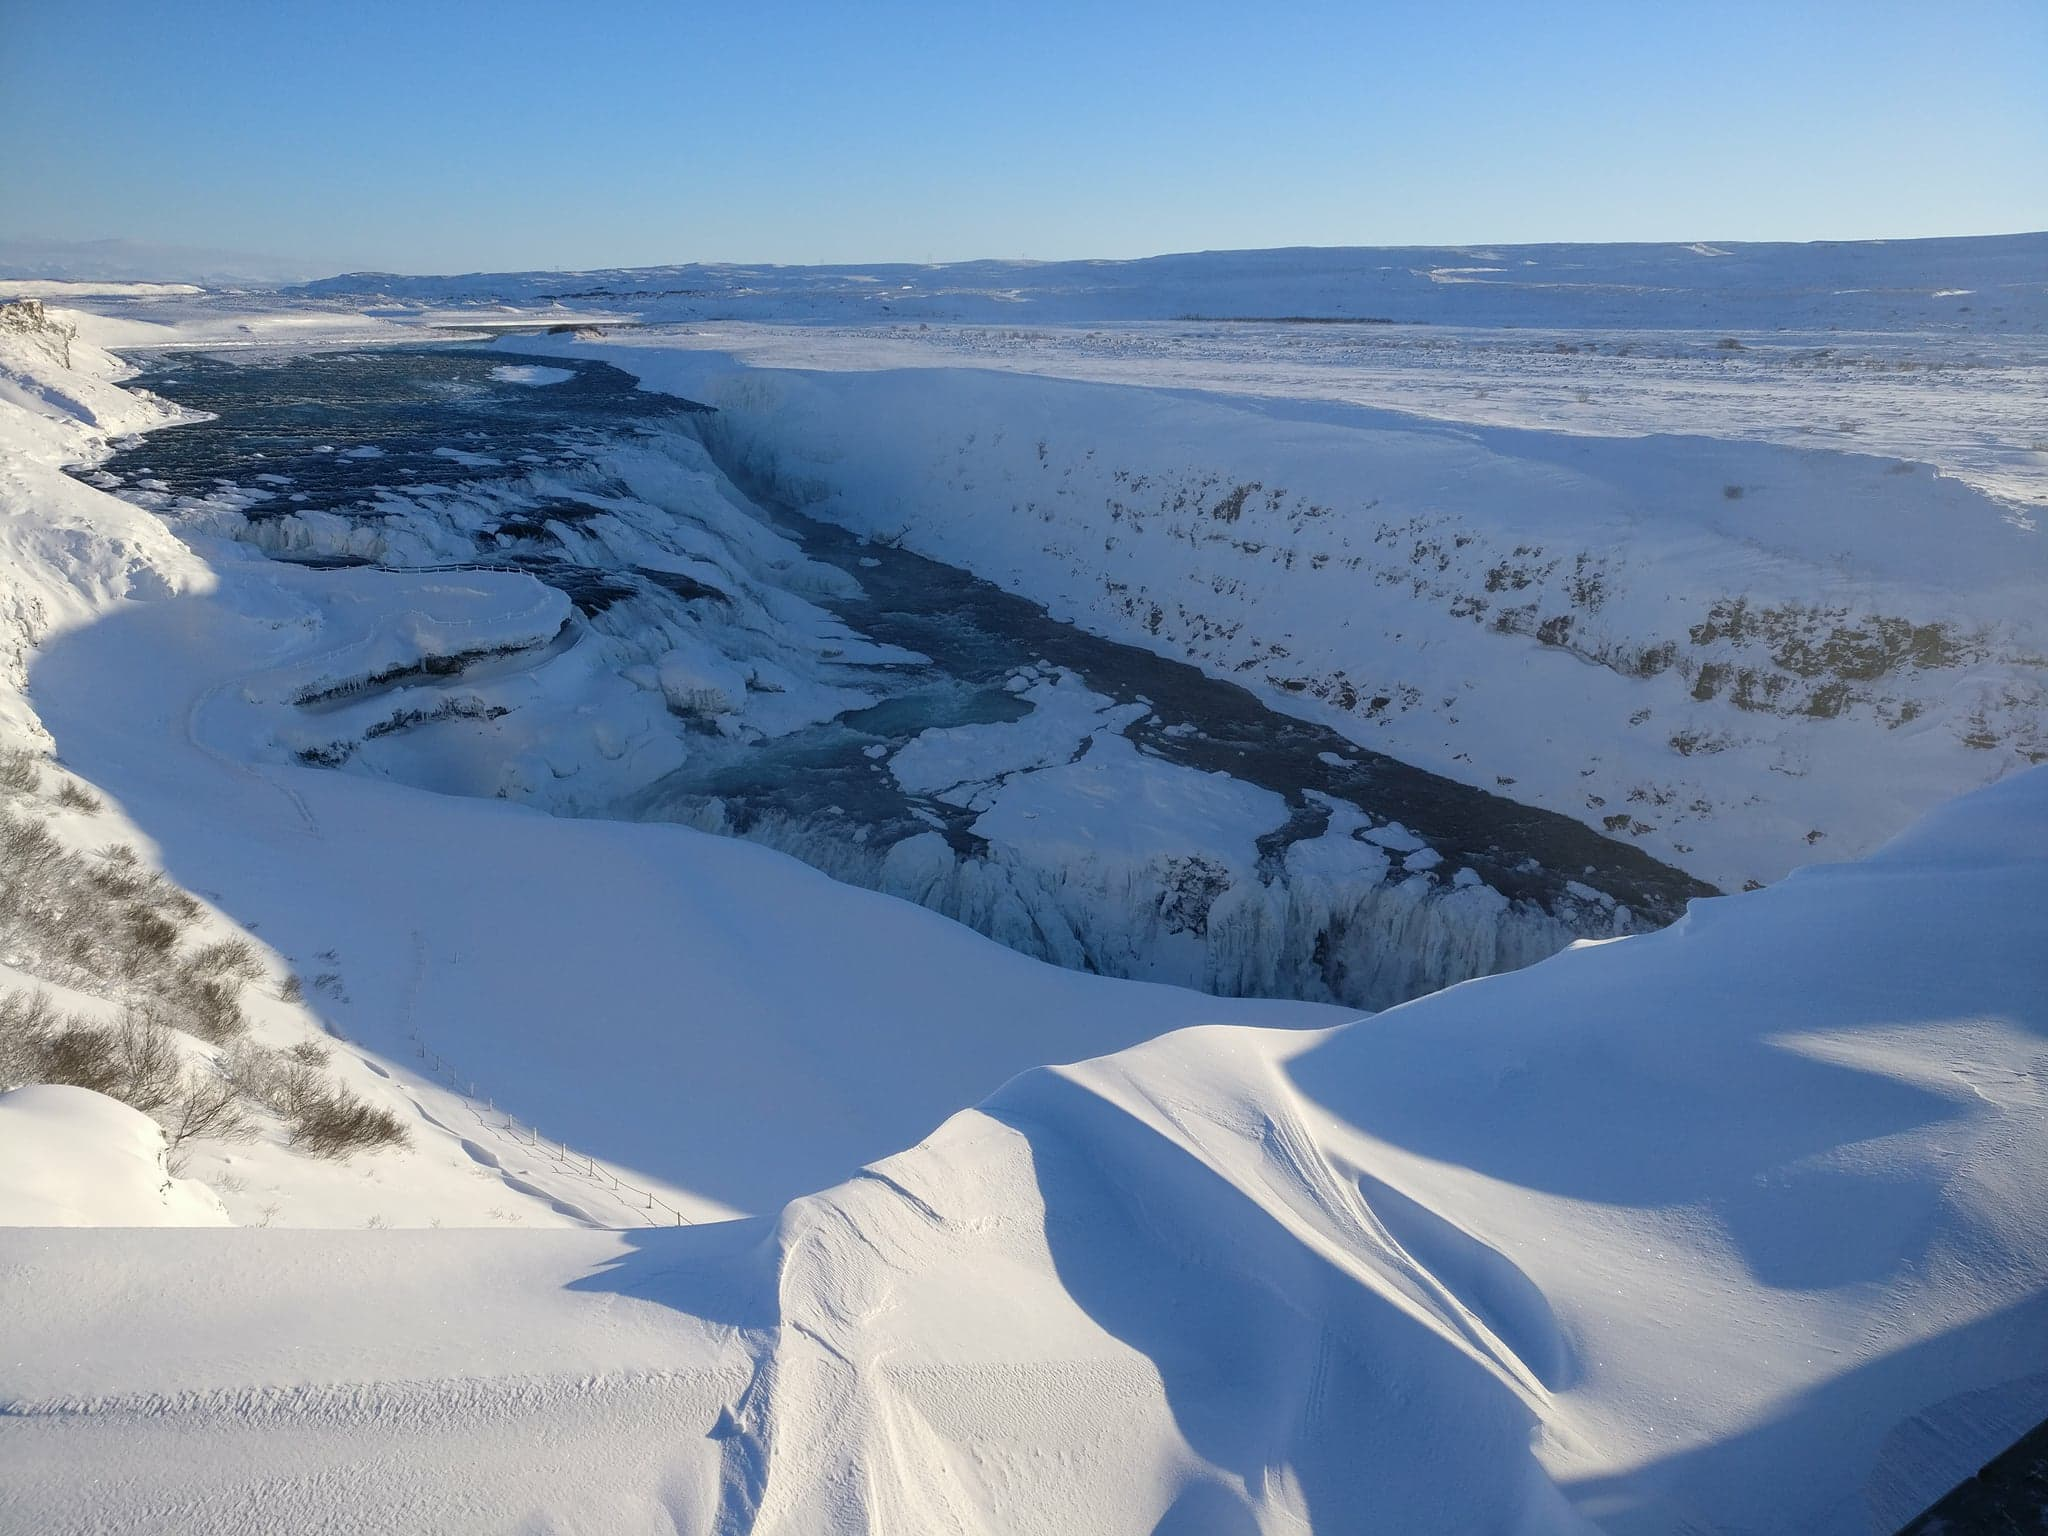
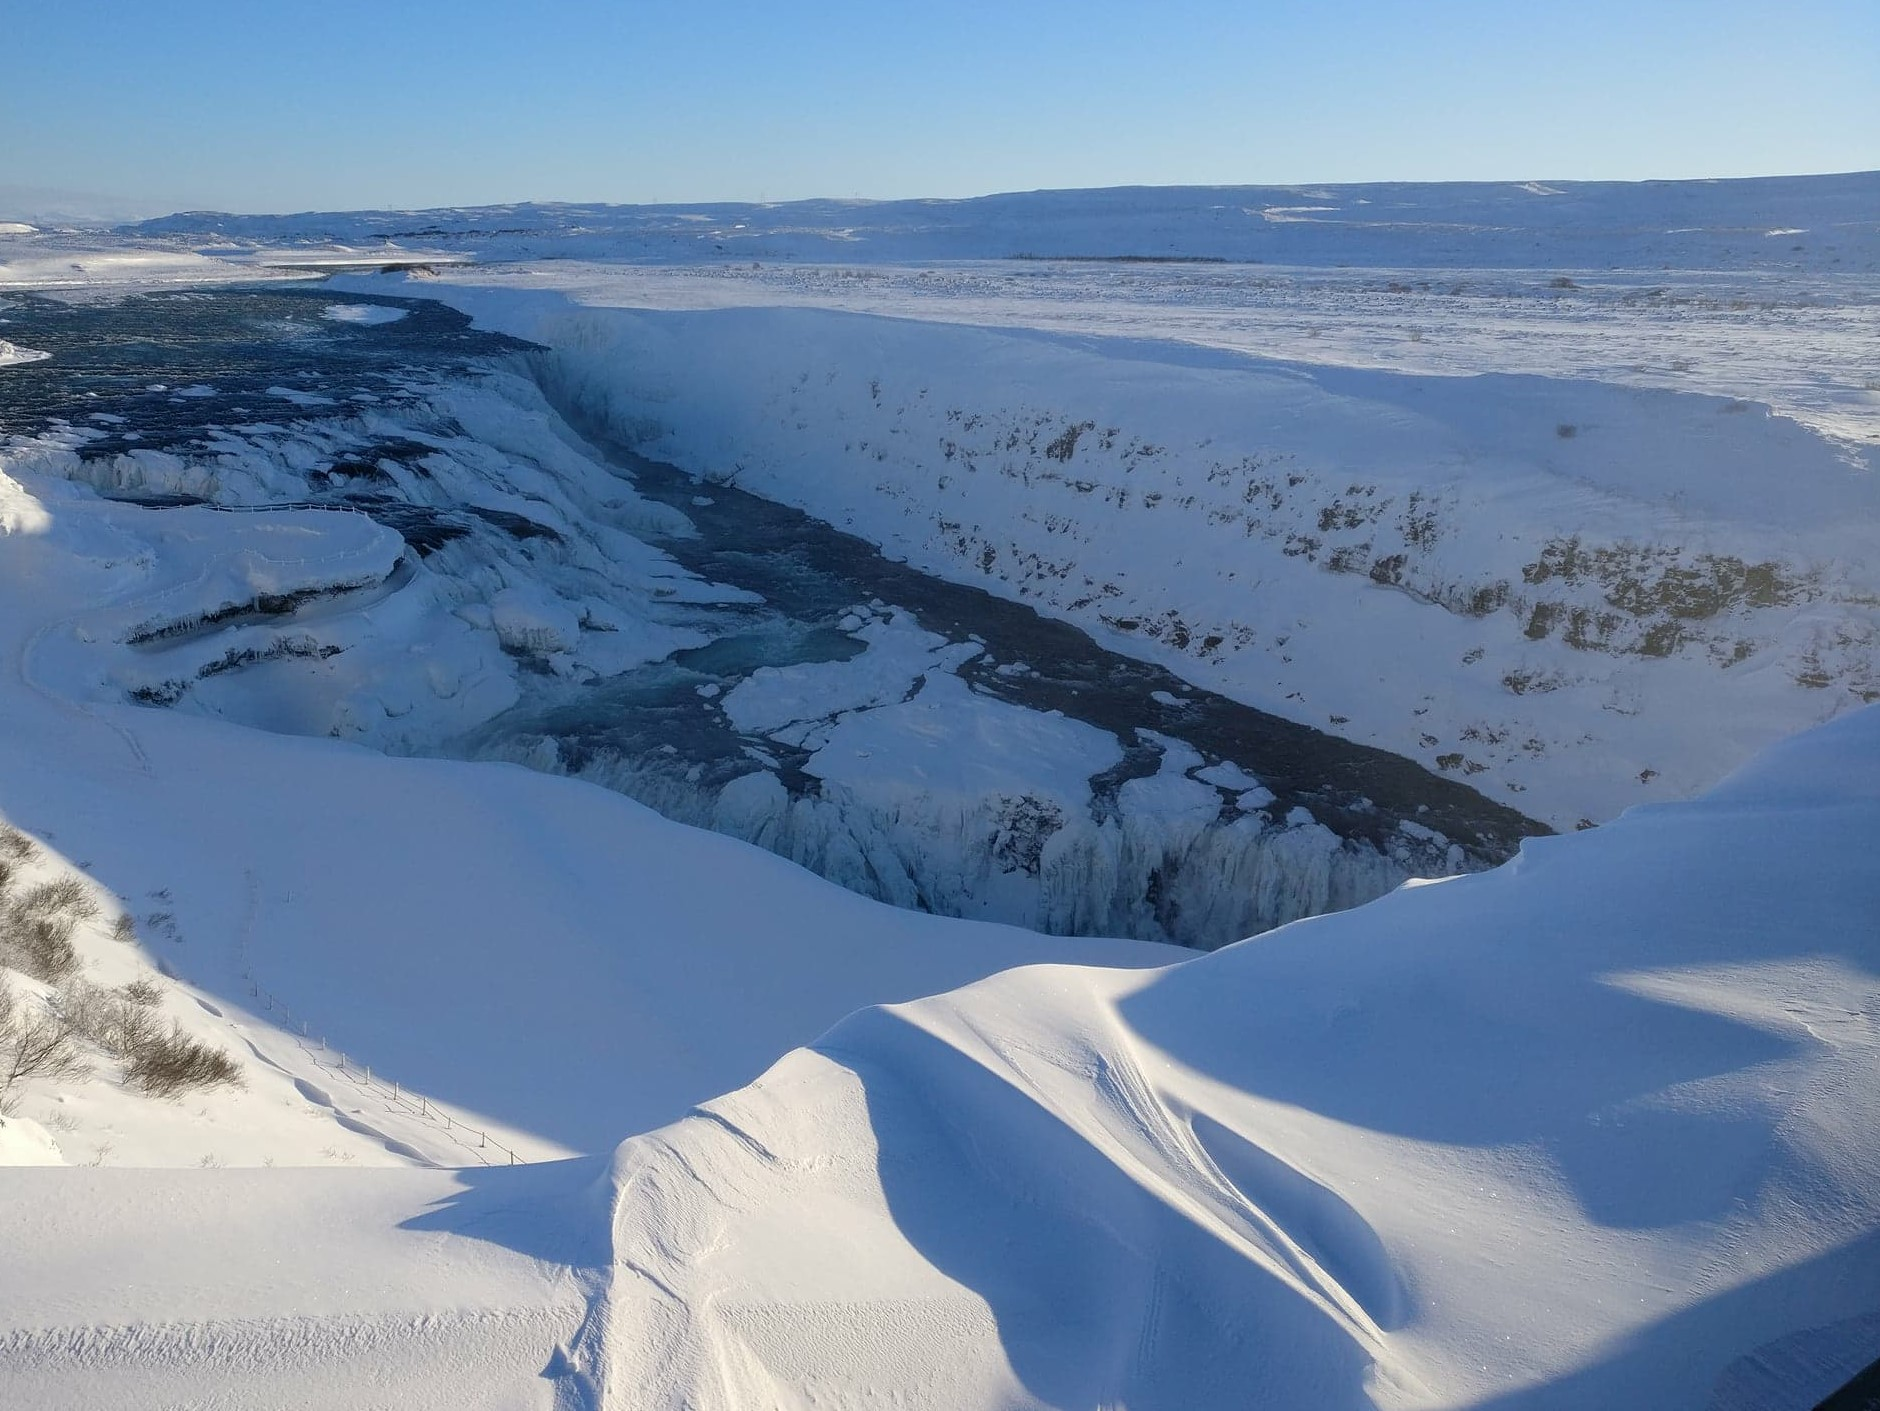
facelift

diff --git a/index.html b/index.html
@@ -18,14 +18,14 @@
 
 <body>
     <script src="js/scripts.js"></script>
-    <nav class="flex-container">
+    
+    
+        <nav class="flex-container">
+        <a href="#about-section" class="projects">projects</a>        
         <a href="" class="logo">savvas.xyz</a>
-        <a href="" class="about">about</a>
-        <a href="#about-section" class="projects">projects</a>
         <a href="#contact-section" class="contact">contact</a>
     </nav>
-    <div class="back-picture">
-    </div>
+        
     <section id="about-section">
     <div class="flex-container-card">
         <p class="professional-card">
@@ -35,47 +35,48 @@
 
     </div>
     </section>
+    
     <section id="project-section">
         <p class="titles">
-            <a id="fcc" href="https://www.freecodecamp.org/">FreeCodeCamp();</a> {projects}</p>
+            <a id="fcc" href="https://www.freecodecamp.org/">FreeCodeCamp</a> (projects);</p>
         <div class="flex-container-card">
             <div class="thumbnails">
-                <figcaption>Build a tribute page. Task objective is
+                <div class="subtitle">
+                Build a tribute page.</div>
+                <hr>
+                <figcaption>Task objective is
                     <a href="https://www.freecodecamp.org/challenges/build-a-tribute-page">
-                    here </a>
+                    here. </a>
                 </figcaption>
                   <a href="https://codepen.io/spambo01/full/NpymgY/">
                     <img alt="Socrates Tribute Page" src="pictures/socrates.PNG">
                 </a>
             </div>
             <div class="thumbnails">
-                <figcaption>Build a tribute page. Task objective is
+                <div class="subtitle">
+                Build a tribute page.</div>
+                <hr>
+                <figcaption>Task objective is
                     <a href="https://www.freecodecamp.org/challenges/build-a-tribute-page">
-                    here </a>
-                </figcaption>
-                <a href="https://codepen.io/spambo01/full/NpymgY/">
-                    <img alt="Socrates Tribute Page" src="pictures/socrates.PNG">
-                </a>
-            </div>
-            <div class="thumbnails">
-                <figcaption>Build a tribute page. Task objective is
-                    <a href="https://www.freecodecamp.org/challenges/build-a-tribute-page">
-                    here </a>
-                </figcaption>
-                   <a href="https://codepen.io/spambo01/full/NpymgY/">
-                    <img alt="Socrates Tribute Page" src="pictures/socrates.PNG">
-                </a>
-            </div>
-            <div class="thumbnails">
-                <figcaption>Build a tribute page. Task objective is
-                    <a href="https://www.freecodecamp.org/challenges/build-a-tribute-page">
-                    here </a>
+                    here. </a>
                 </figcaption>
                   <a href="https://codepen.io/spambo01/full/NpymgY/">
                     <img alt="Socrates Tribute Page" src="pictures/socrates.PNG">
                 </a>
             </div>
-
+            <div class="thumbnails">
+                <div class="subtitle">
+                Build a tribute page.</div>
+                <hr>
+                <figcaption>Task objective is
+                    <a href="https://www.freecodecamp.org/challenges/build-a-tribute-page">
+                    here. </a>
+                </figcaption>
+                  <a href="https://codepen.io/spambo01/full/NpymgY/">
+                    <img alt="Socrates Tribute Page" src="pictures/socrates.PNG">
+                </a>
+            </div>
+            
         </div>
     </section>
 
@@ -87,18 +88,19 @@
                 <a href="https://twitter.com/spambo01" target="_blank">
                     <i class="fab fa-twitter fa-3x"></i>
                 </a>
+                <a href="https://www.instagram.com/savvas.pamboukas/" target="_blank">
+                    <i class="fab fa-instagram fa-3x"></i>
+                </a>
                 <a href="https://www.linkedin.com/in/savvas-pamboukas/" target="_blank">
                     <i class="fab fa-linkedin-in fa-3x"></i>
+                </a>
+                <a href="https://codepen.io/spambo01/" target="_blank">
+                    <i class="fab fa-codepen fa-3x"></i>
                 </a>
                 <a href="https://github.com/spambo01" target="_blank">
                     <i class="fab fa-github-alt fa-3x"></i>
                 </a>
-                 <a href="https://codepen.io/spambo01/" target="_blank">
-                    <i class="fab fa-codepen fa-3x"></i>
-                </a>
-                <a href="https://www.instagram.com/savvas.pamboukas/" target="_blank">
-                    <i class="fab fa-instagram fa-3x"></i>
-                </a>
+                              
             </div>
         </div>
     </section>
@@ -107,7 +109,7 @@
         <p class="professional-card">
                   Grab a <a href="docs/cv.pdf" download>copy</a> of my Cv
                 <i>or</i> view it <a target="_blank" href="https://www.dropbox.com/s/azkswj3ipd1kkbo/Savvas_Pamboukas_CV.pdf?dl=0">
-                    Online
+                    online
                 </a> 
         </p>
 

diff --git a/css/savvasxyz.css b/css/savvasxyz.css
@@ -1,30 +1,45 @@
 .back-picture{
-     background: url('../pictures/iceland2.jpg') no-repeat center center fixed; 
+     background: url('../pictures/iceland1.jpg') no-repeat center center fixed; 
   -webkit-background-size: cover;
   -moz-background-size: cover;
   -o-background-size: cover;
   background-size: cover; 
-    height: 20em;
+    height: 25em;    
 }
+
 body{
     margin: auto;
     font-family:josefin sans;
+    background-color: #fcfcfc;
 }
 
-a {
-    text-decoration: none;    color:#006400;
-   font-weight: bold; 
+.professional-card{     
+    width:25em;
+    font-size: 1.5em;
+    font-family:monospace;
+    padding: 0em 1em;
+    text-align: justify;
+    color:#24292E;    
+    margin-top:7em;
+    border-left: 0.1em #24292E solid;    
+    border-right: 0.1em #24292E solid;
+}
+
+#cv-section .flex-container-card p.professional-card {
+    text-align: center;
+       padding: 0em;
+    margin-top:0em;
 }
 
 .flex-container {
   display: flex;
   flex-flow: row wrap;
-  justify-content: flex-end;  
-    background-color: white;
-    padding-right:3em;
+  justify-content: center;  
+    align-items: center;
     position:fixed;
     width:100%;
-    border-bottom: 0.1em solid #3863a0;
+    /*border-bottom: 0.1em solid #3863a0;*/
+    
 }
 
 .flex-container-card {
@@ -34,47 +49,77 @@ a {
     align-items: center;  
     
 }
-.logo{    
-    font-size:2.1em;
-    font-weight: 800;
+
+nav{
+    background-color: white;
+}
+nav a{    
+    font-size:2em;
+    font-weight: normal;
     color:#24292E;
-   margin-right: auto;
-    padding:0.4em; 
+    text-decoration: none;
+    margin:0.4em ;
+}
+
+a {
+     color:#24292E;
+    text-decoration-style: dotted;
+    text-decoration-color: black;
+    text-decoration-line: underline;
+    font-weight: bold;
+    
+}
+
+#contact-section a {
+    text-decoration: none;
+    color:#24292E;
+}
+
+.projects{
+    padding-right: 1em;
+    border-right:0.1em solid #24292E;
+}
+
+.contact{
+    padding-left: 1em;
+    border-left:0.1em solid #24292E;
+}
+
+.logo{   
+    margin-left: 0.5em;
+    margin-right: 0.5em;   
 }
 
 a.logo:hover{
     color: inherit;
 }
-.titles{
-    font-size: 1.6em;
-    color:#24292E;
-    font-weight: 600;   
+
+nav a:hover{    
+   color:grey;
 }
+
+.titles{
+    font-size: 1.8em;
+    color:#24292E;
+    margin-bottom: 2em;
+       
+}
+.subtitle{
+    text-align: center;
+    font-size: 1.1em; 
+}
+
+hr{
+    width:4em;
+}
+
 
 section{
-    padding:0em 0em 2em 0.8em;
-    margin-top: 1.5em;
-}
-.about, .projects, .contact{
- padding: 0.8em 0.5em 0em 0.5em;
-    font-size:1.6em;
-     color:#000;
-    font-weight: 600; 
-}
-
-.about:hover, .projects:hover, .contact:hover{
-     color:#3863a0;
+ text-align: center;
+    margin-bottom: 8em;
 }
 
 
-
-#cv-section .flex-container-card p.professional-card {
-    text-align: center;
-}
-
-a:hover{    
-   color:#5aad5a;
-}
 
 .contact-icons {
     width:32em;
@@ -83,28 +128,7 @@ a:hover{
     margin:0em 0.5em 0.4em 0.5em;    
 }
 
-.fa-twitter{ 
-    color:#00aced;
-}
 
-.fa-linkedin-in{
-    color:#0077B5;
-}
-
-.fa-github-alt, .fa-instagram, .fa-codepen{
-    color:#24292E;
-}
-
-.professional-card{   
-    background-color:white;  
-    width:25em;
-    font-size: 1.5em;
-    font-family:monospace;
-    border-right: 0.1em solid #24292E;
-    border-left: 0.1em solid #24292E;
-    padding: 0em 1em;
-    text-align: justify;
-}
 
 #cv-sub-category{
     margin:0em;
@@ -116,38 +140,38 @@ a:hover{
 }
 
 footer{
-    background-color: black;
+    background-color: #24292E;
     text-align: right;
-    padding: 1em;
     font-family: ubuntu;
     font-size: 0.7em;
     color: white;
-    margin-top:5em;
 }
 
 .thumbnails{
-    margin:0em 3em 1.5em 3em;
-    width:20em;
+    margin:0em 10em 1.5em 10em;
+    width:32em;
     font-size: 1.3em;
     font-family:monospace;
 }
 
 .thumbnails img{
-    width:20em;
+    width:32em;
 }
 
 figcaption{
-    margin-bottom:1em;
+    margin-bottom:0.4em;
     margin-top:1em;
+    font-size:0.9em;
+    text-align: center;
 }
 
 body {
-  font-size: small;
+  font-size: medium;
 }
 @media (max-width: 1000px) {
-  body { font-size: medium; }
+  body { font-size: large; }
 }
-@media (max-width: 500px) {
+@media (max-width: 700px) {
   body { font-size: x-large; }
 }
 
